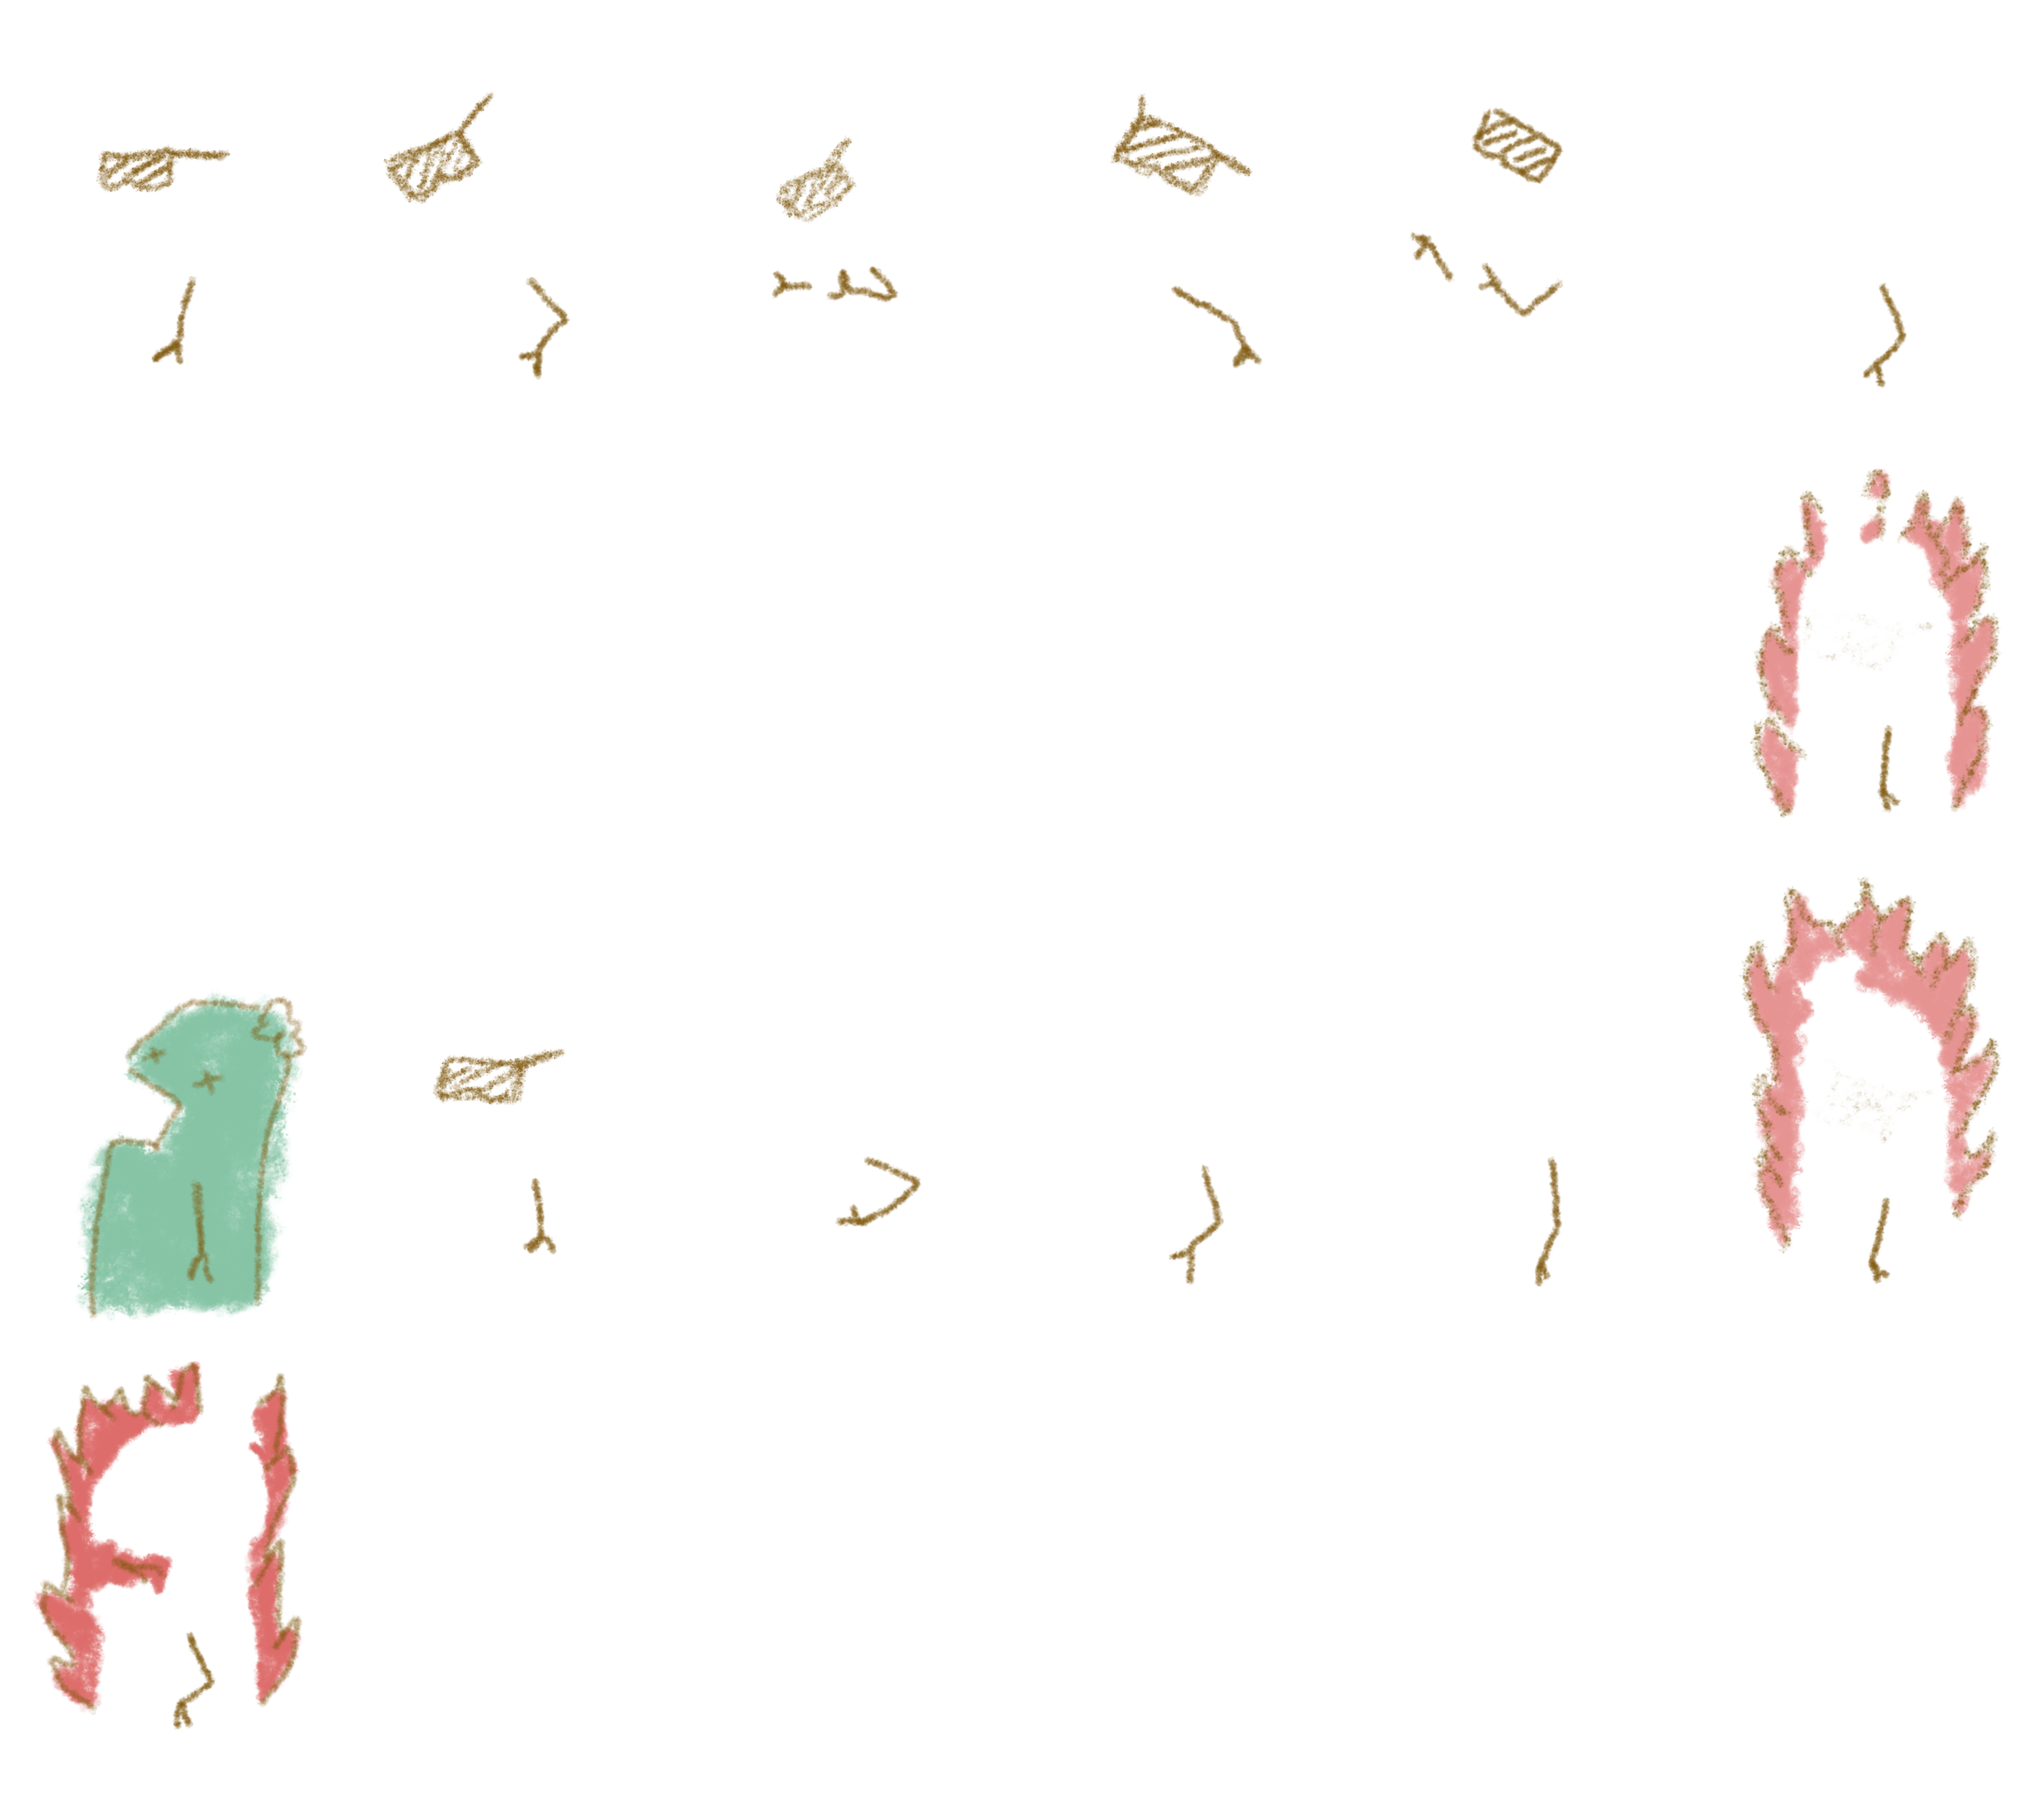
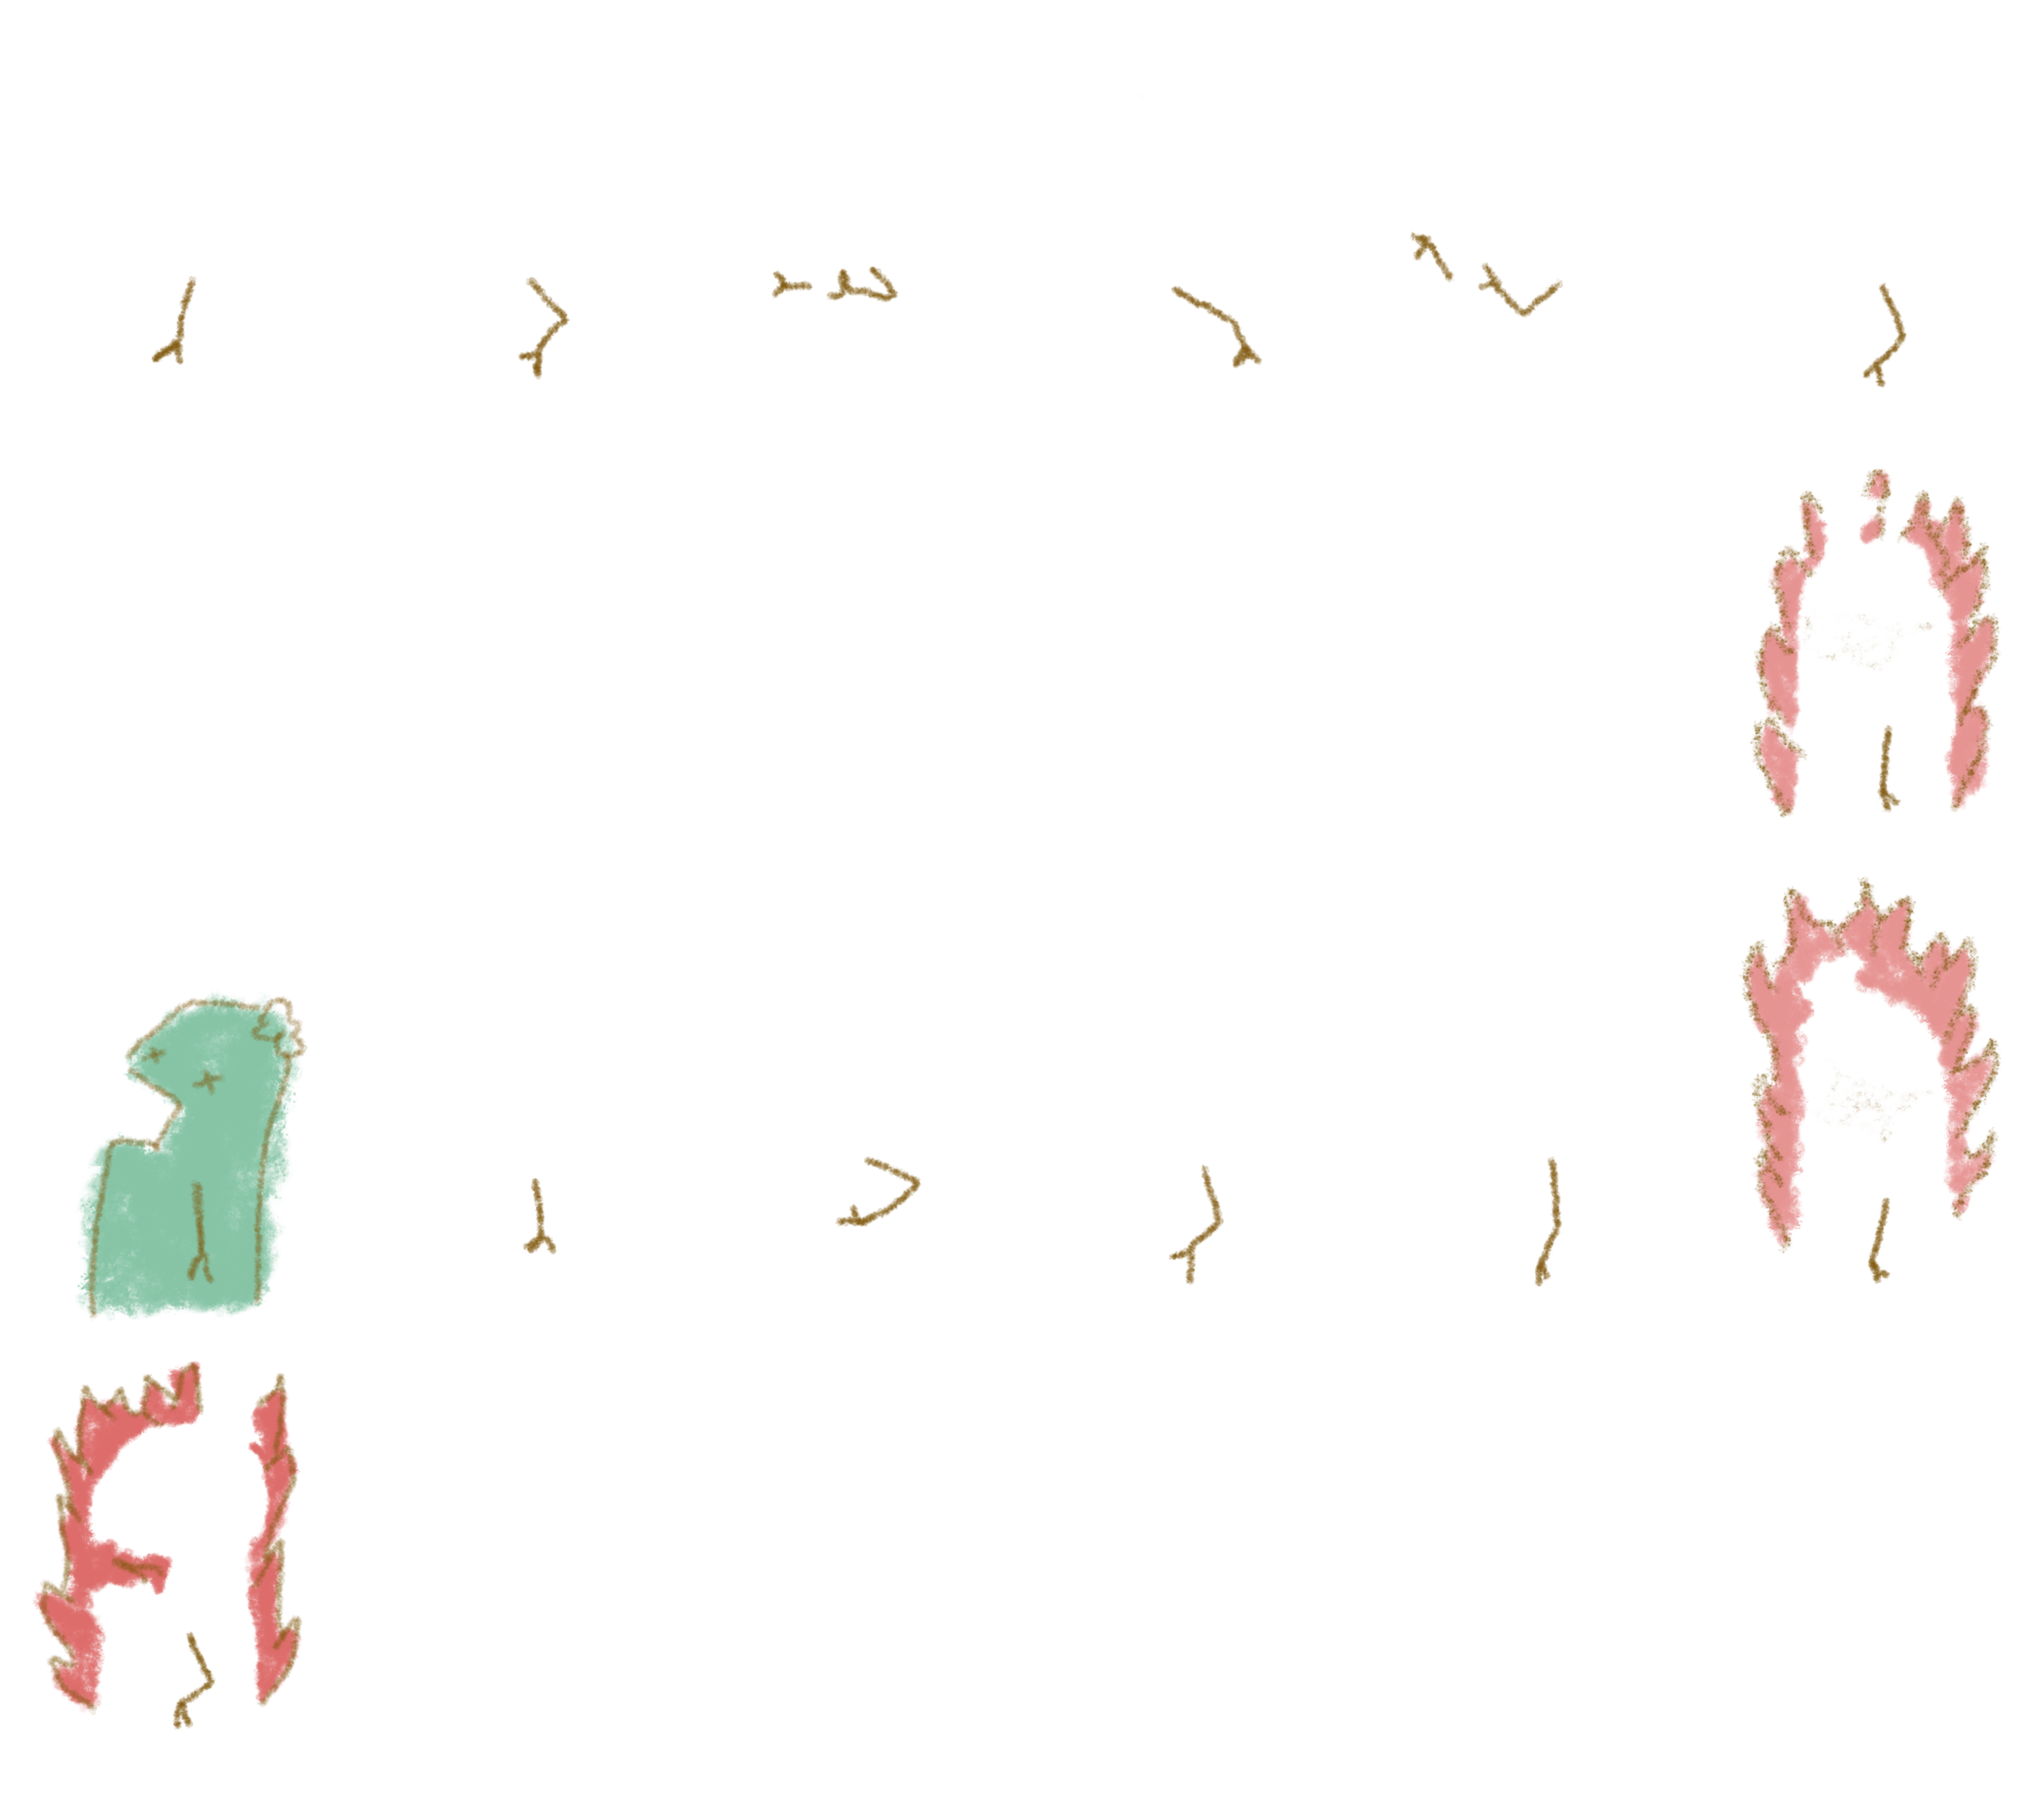
remove debug dots, clean up hotdoug overlay

diff --git a/src/components/pet/index.js b/src/components/pet/index.js
@@ -25,9 +25,8 @@ import {
   selectActiveSceneType
 } from '../../store/selectors';
 
-const ENABLE_DEBUG_CLICKS = true;
+const ENABLE_DEBUG_CLICKS = false;
 const MAX_DEBUG_CLICKS = 10;
-const FRAME_RATE = 1;
 const DRAG_Y = .99;
 const DRAG_X = .8;
 const FALL_Y = 1;
